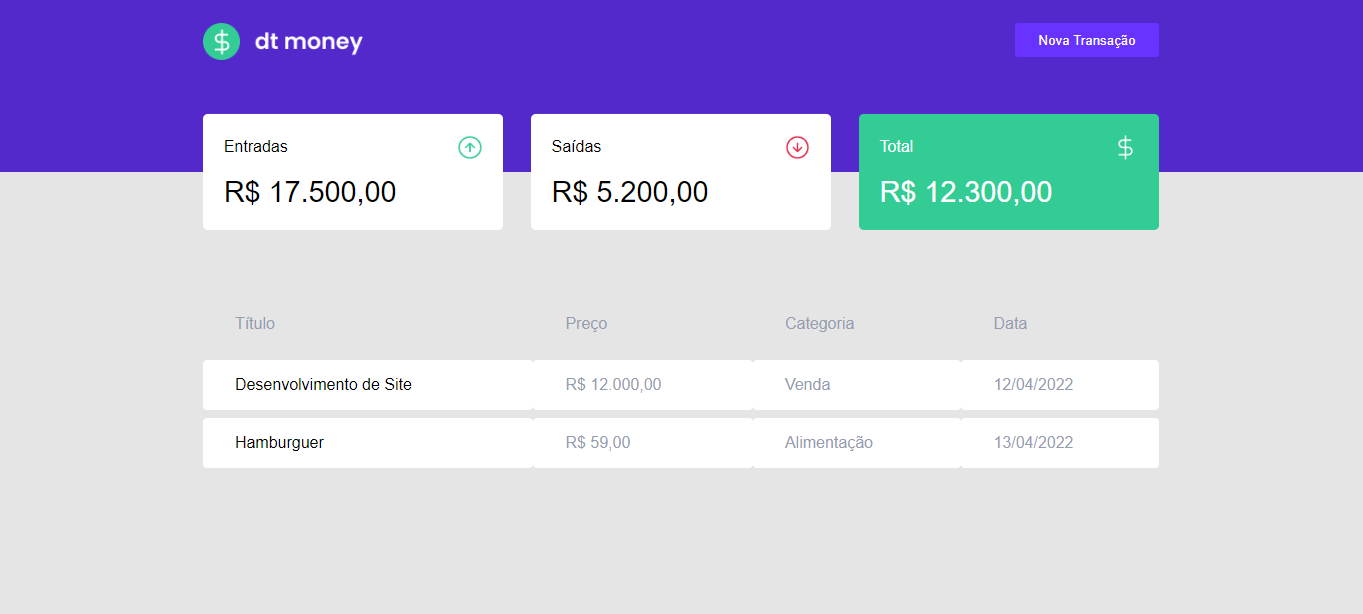
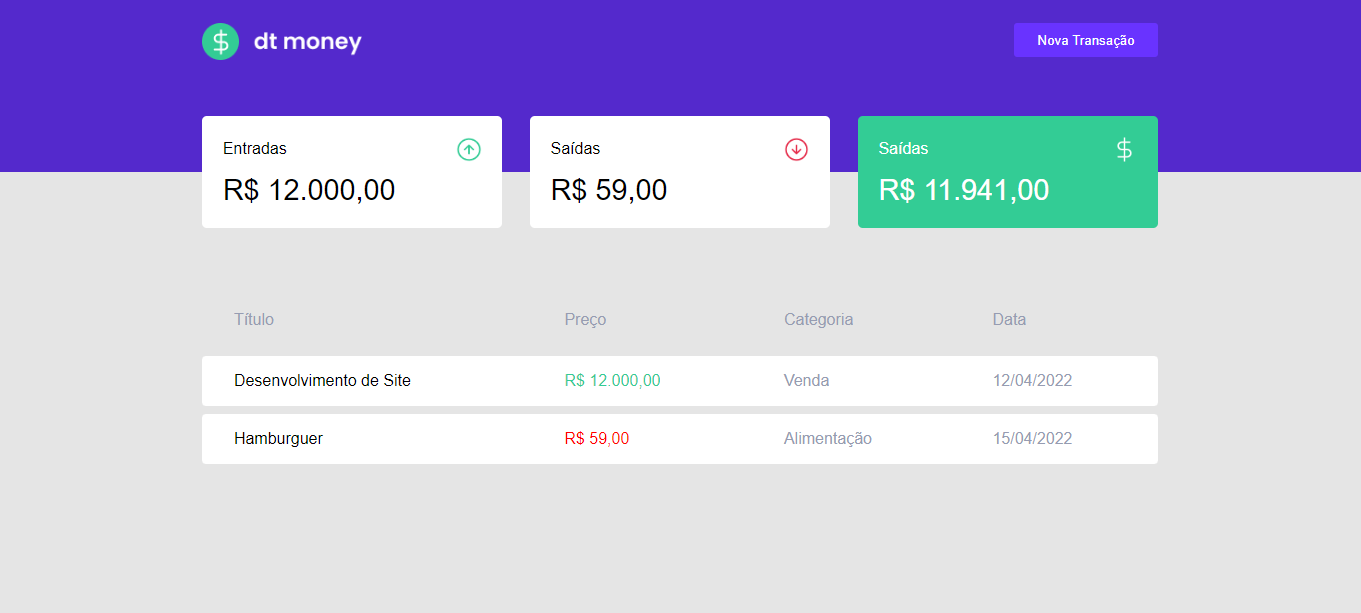
Adjust of numbers formatation. Responsiveness adjustment

diff --git a/src/components/Flow.js b/src/components/Flow.js
@@ -1,33 +1,55 @@
 import React from "react";
 
-import entradas from "../assets/Entradas.png";
-import saidas from "../assets/Saidas.png";
-import total from "../assets/Total.png";
+import Entradas from "../assets/Entradas.png";
+import Saidas from "../assets/Saidas.png";
+import Total from "../assets/Total.png";
 
 import { useTransactions } from "../hooks/useTransactions";
 
 export function Flow() {
   const { transactions } = useTransactions();
+  let incomes = 0;
+  let outcomes = 0;
+  transactions.forEach((transaction) => {
+    if (transaction.type === "income") incomes += transaction.price;
+    else outcomes += transaction.price;
+  });
+  let total = incomes - outcomes;
 
   return (
     <div className="flow">
       <div className="income">
         <p>
-          <span>Entradas</span> <img alt="entradas" src={entradas}></img>
+          <span>Entradas</span> <img alt="entradas" src={Entradas}></img>
         </p>
-        <div>R$ 12.000,00</div>
+        <div>
+          {incomes.toLocaleString("pt-br", {
+            style: "currency",
+            currency: "BRL",
+          })}
+        </div>
       </div>
       <div className="outcome">
         <p>
-          <span>Saídas</span> <img alt="saidas" src={saidas}></img>
+          <span>Saídas</span> <img alt="saidas" src={Saidas}></img>
         </p>
-        <div>R$ 5.200,00</div>
+        <div>
+          {outcomes.toLocaleString("pt-br", {
+            style: "currency",
+            currency: "BRL",
+          })}
+        </div>
       </div>
       <div className="total">
         <p>
-          <span>Total</span> <img alt="total" src={total}></img>
+          <span>Saídas</span> <img alt="total" src={Total}></img>
         </p>
-        <div>R$ 12.300,00</div>
+        <div>
+          {total.toLocaleString("pt-br", {
+            style: "currency",
+            currency: "BRL",
+          })}
+        </div>
       </div>
     </div>
   );

diff --git a/src/styles/flow.scss b/src/styles/flow.scss
@@ -1,23 +1,25 @@
-div.flow{
+div.flow {
     display: flex;
     justify-content: space-between;
 
     transform: translateY(-50%);
-    
-    div.income, div.outcome, div.total{
+
+    div.income,
+    div.outcome,
+    div.total {
         display: flex;
         flex-direction: column;
         justify-content: space-between;
 
         background-color: var(--off-white);
-        
-        border-radius: 0.3rem;        
 
-        width: 22vw;
-        height: 8.5vw;
+        border-radius: 0.3rem;
+
+        width: 22%;
+        height: 7rem;
         padding: 1.3rem;
 
-        p{
+        p {
             display: flex;
             justify-content: space-between;
             align-items: center;
@@ -27,19 +29,51 @@ div.flow{
             }
         }
 
-        div{
+        div {
             font-size: 1.8rem;
         }
     }
 
-    div.income{
+    div.income {
         margin-left: 15%;
     }
 
-    div.total{
+    div.total {
         background-color: var(--green);
         color: var(--off-white);
-    
+
         margin-right: 15%;
+    }
+}
+
+@media(max-width:1024px) {
+    div.flow {
+
+        div.income,
+        div.outcome,
+        div.total {
+            height: 5rem;
+            padding: 1rem;
+
+            div {
+                font-size: 1.5rem;
+            }
+        }
+    }
+}
+
+@media (max-width: 768px) {
+    div.flow {
+
+        div.income,
+        div.outcome,
+        div.total {
+            height: 5rem;
+            padding: 0.8rem;
+
+            div {
+                font-size: 1.2rem;
+            }
+        }
     }
 }

diff --git a/src/components/TransactionsTable.js b/src/components/TransactionsTable.js
@@ -15,15 +15,26 @@ export function TransactionsTable() {
         </tr>
       </thead>
       <tbody>
-        {transactions.map(transaction => { 
-          return(
+        {transactions.map((transaction) => {
+          return (
             <tr key={transaction.date}>
               <td>{transaction.name}</td>
-              <td style={transaction.type === 'income' ? {color: '#33CC95'} : {color: "red"}}>{transaction.price}</td>
+              <td
+                style={
+                  transaction.type === "income"
+                    ? { color: "#33CC95" }
+                    : { color: "red" }
+                }
+              >
+                {transaction.price.toLocaleString("pt-br", {
+                  style: "currency",
+                  currency: "BRL",
+                })}
+              </td>
               <td>{transaction.category}</td>
               <td>{transaction.date}</td>
             </tr>
-          )
+          );
         })}
       </tbody>
     </table>

diff --git a/src/server/server.js b/src/server/server.js
@@ -7,14 +7,14 @@ export function Server() {
         transactions: [
           {
             name: "Desenvolvimento de Site",
-            price: 'R$ 12.000,00',
+            price: 12000,
             category: "Venda",
             date: "12/04/2022",
             type: "income",
           },
           {
             name: "Hamburguer",
-            price: 'R$ 59,00',
+            price: 59,
             category: "Alimentação",
             date: "15/04/2022",
             type: "outcome",

diff --git a/src/components/TransactionsModal.js b/src/components/TransactionsModal.js
@@ -24,10 +24,7 @@ export function TransactionsModal({ isModalOpen, toggleModal }) {
 
     setNewTransaction({
       name,
-      price: Number(price).toLocaleString("pt-br", {
-        style: "currency",
-        currency: "BRL",
-      }),
+      price: Number(price),
       category,
       type: selectedButton,
       date: new Date().toLocaleDateString(),

diff --git a/src/styles/global.scss b/src/styles/global.scss
@@ -23,6 +23,18 @@ button {
     cursor: pointer;
 }
 
+@media (max-width: 1024px) {
+    * {
+        font-size: 93.75%;
+    }
+}
+
+@media (max-width: 768px) {
+    * {
+        font-size: 87.5%;
+    }
+}
+
 .react-modal-overlay {
     background-color: rgb(0, 0, 0, 0.5);
 
